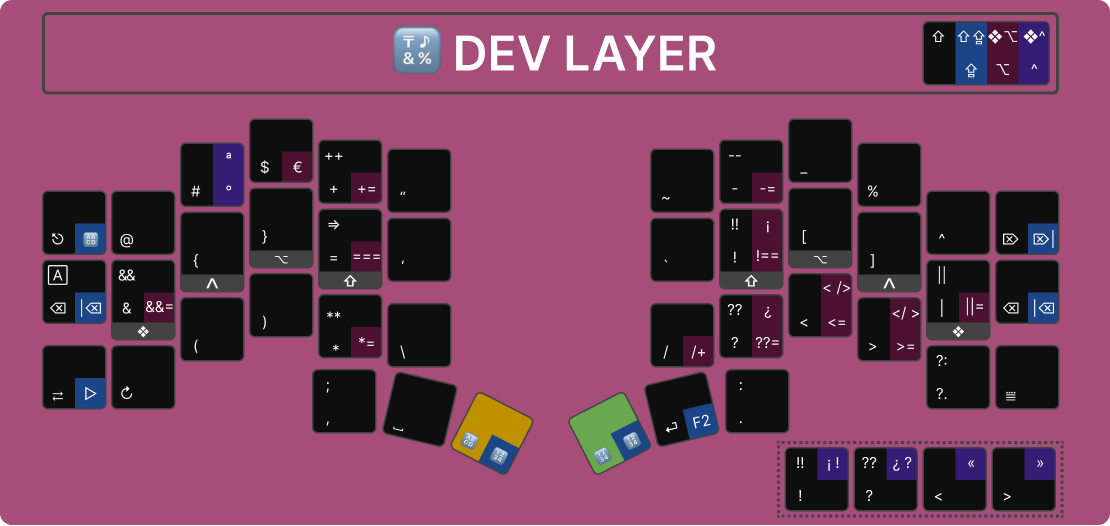
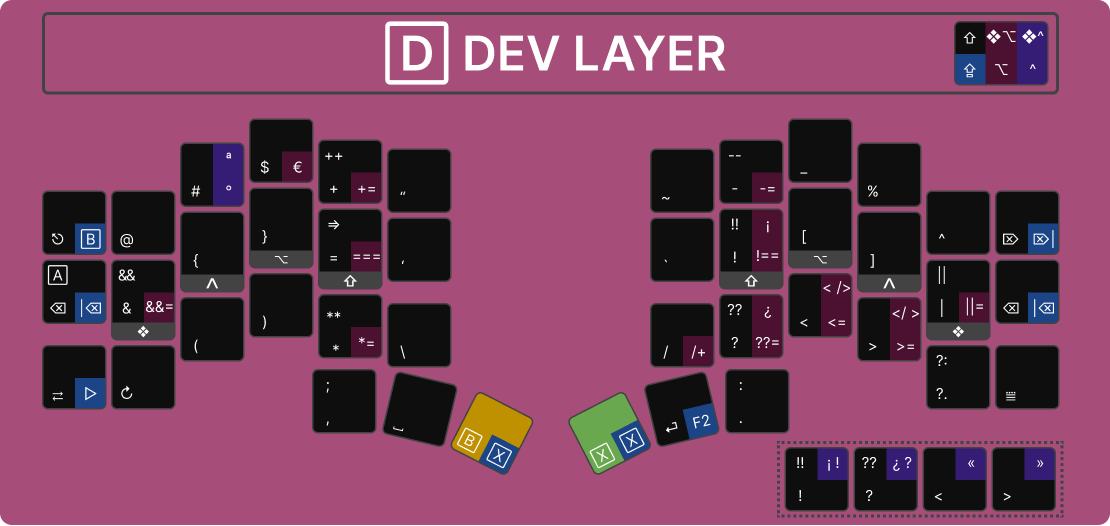
update AHK keys

diff --git a/CHANGELOG.md b/CHANGELOG.md
@@ -1,5 +1,10 @@
 # CHANGELOG
 
+## 5.6.0
+
+- Update layer icons replacing emoji icons for Unicode letters
+- update AHK keys combinations
+
 ## 5.5.0
 
 - Add task manager key on `STG` layer
